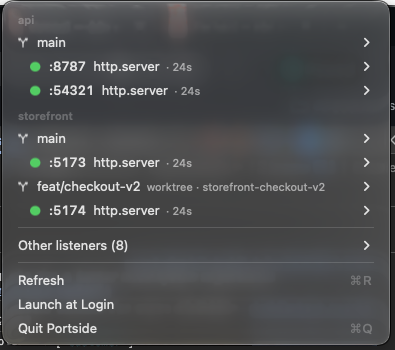
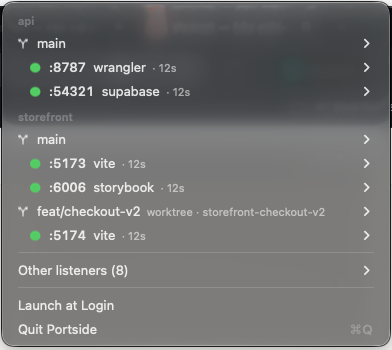
docs: polish README, add contributing guide and issue templates (#1)
- README: badges, direct download link, feature table, install steps
- New menu screenshot showing vite/wrangler/supabase/storybook labels
- demo.sh: disguise servers as node_modules/.bin/<tool> so the screenshot
  shows real tool names; also fixes `stop`, which missed servers because
  Homebrew python re-execs and drops the `exec -a` name
- CONTRIBUTING.md, bug/feature issue forms, PR template

diff --git a/README.md b/README.md
@@ -10,54 +10,69 @@
 </p>
 
 <p align="center">
-  <img src="docs/menu.png" width="395" alt="Portside menu showing dev servers grouped by repository and worktree">
+  <a href="https://github.com/brentc22/portside/releases/latest"><img src="https://img.shields.io/github/v/release/brentc22/portside?style=flat-square&label=release&color=4c6ef5" alt="Latest release"></a>
+  <a href="https://github.com/brentc22/portside/actions/workflows/ci.yml"><img src="https://img.shields.io/github/actions/workflow/status/brentc22/portside/ci.yml?branch=main&style=flat-square&label=CI" alt="CI status"></a>
+  <img src="https://img.shields.io/badge/macOS-14%2B-111?style=flat-square&logo=apple" alt="macOS 14 or later">
+  <img src="https://img.shields.io/badge/Swift-6-F05138?style=flat-square&logo=swift&logoColor=white" alt="Swift 6">
+  <a href="LICENSE"><img src="https://img.shields.io/github/license/brentc22/portside?style=flat-square&color=2f9e44" alt="MIT license"></a>
+</p>
+
+<p align="center">
+  <a href="https://github.com/brentc22/portside/releases/latest/download/Portside.zip"><b>Download Portside.zip</b></a>
+  &nbsp;·&nbsp;
+  <a href="#build-from-source">Build from source</a>
+  &nbsp;·&nbsp;
+  <a href="CHANGELOG.md">Changelog</a>
+</p>
+
+<p align="center">
+  <img src="docs/menu.png" width="392" alt="Portside menu: an api repo running wrangler and supabase, a storefront repo running vite and storybook, and a feat/checkout-v2 worktree running a second vite">
 </p>
 
 ---
 
 ## Why
 
-`lsof -iTCP -sTCP:LISTEN` tells you *node* is on `:5174`. It doesn't tell you it's the
+`lsof -iTCP -sTCP:LISTEN` tells you *node* is on `:5174`. It doesn't tell you that it's the
 Vite server you started three days ago in a worktree you already merged.
 
-If you work with several repos or git worktrees at once, ports pile up: `5173`, `5174`,
-`5175`, `8080`, `8787`… Portside answers "what is this, and can I kill it?" without a
-terminal.
+If you work in several repos or git worktrees at once, ports pile up: `5173`, `5174`,
+`5175`, `8080`, `8787`… Portside answers "what is this, and can I kill it?" without
+opening a terminal.
 
 ## Features
 
-- **Grouped by repo → checkout → server.** Linked git worktrees sit under their main
-  repository, labelled with their branch.
-- **Knows the tool, not just the binary.** `node` becomes `vite`, `next`, `wrangler`,
-  `astro`, `storybook`… by reading the process's arguments.
-- **Uptime per server** — spot the forgotten ones.
-- **One-click actions:** open `localhost:<port>`, copy the URL, stop (SIGTERM) or force quit
-  (SIGKILL), stop every server in a worktree at once.
-- **Jump to the code:** open the checkout in your editor (Cursor, VS Code, Zed, Windsurf,
-  Sublime, Xcode) or terminal (Ghostty, iTerm, Warp, kitty, WezTerm, Terminal) — whichever
-  you have installed.
-- **Everything else stays out of the way.** AirPlay, Spotify, Docker and other listeners
-  that weren't started from a git checkout go under *Other listeners*.
-- **Light:** no Dock icon, no permissions to grant, no network access, no dependencies.
-  A scan takes ~50–100 ms.
+|  |  |
+| --- | --- |
+| 🗂 **Grouped by repo → checkout → server** | Linked git worktrees sit under their main repository, labelled with their branch. |
+| 🔎 **Knows the tool, not just the binary** | `node` becomes `vite`, `next`, `wrangler`, `astro`, `storybook`… by reading the process's arguments. |
+| ⏱ **Uptime per server** | Spot the ones you forgot about. |
+| ⚡ **One-click actions** | Open `localhost:<port>`, copy the URL, stop (SIGTERM) or force quit (SIGKILL), or stop every server in a worktree at once. |
+| 🧑💻 **Jump to the code** | Open the checkout in your editor (Cursor, VS Code, Zed, Windsurf, Sublime, Xcode) or terminal (Ghostty, iTerm, Warp, kitty, WezTerm, Terminal), whichever you have installed. |
+| 🧹 **Everything else stays out of the way** | AirPlay, Spotify, Docker and other listeners that weren't started from a git checkout go under *Other listeners*. |
+| 🪶 **Light** | No Dock icon, no permissions to grant, no network access, no dependencies. A scan takes ~50–100 ms. |
 
 ## Install
 
-Download `Portside.zip` from the [latest release](../../releases/latest), unzip, and move
-`Portside.app` to `/Applications`.
+1. Download [`Portside.zip`](https://github.com/brentc22/portside/releases/latest/download/Portside.zip)
+   from the latest release.
+2. Unzip it and move `Portside.app` to `/Applications`.
+3. Open it. The icon appears in your menu bar; turn on **Launch at Login** from the menu
+   if you want it there every time.
 
-The app is not notarized yet, so macOS blocks the first launch. Either right-click →
-**Open**, or:
-
-```sh
-xattr -dr com.apple.quarantine /Applications/Portside.app
-```
+> [!NOTE]
+> Portside isn't notarized yet, so macOS blocks the first launch. Right-click the app →
+> **Open**, or clear the quarantine flag:
+>
+> ```sh
+> xattr -dr com.apple.quarantine /Applications/Portside.app
+> ```
 
 Requires macOS 14 Sonoma or later. Universal binary (Apple silicon + Intel).
 
 ### Build from source
 
-Only the Xcode Command Line Tools are needed — no full Xcode.
+You only need the Xcode Command Line Tools, not the full Xcode.
 
 ```sh
 git clone https://github.com/brentc22/portside.git
@@ -70,19 +85,21 @@ make run        # builds, installs to /Applications and launches
 | Question | Answer | How |
 | --- | --- | --- |
 | What's listening? | pid + ports | one `lsof -nP -iTCP -sTCP:LISTEN -F pcn` call |
-| Where was it started? | working directory | `proc_pidinfo(PROC_PIDVNODEPATHINFO)` — straight from the kernel |
+| Where was it started? | working directory | `proc_pidinfo(PROC_PIDVNODEPATHINFO)`, straight from the kernel |
 | What is it? | `vite`, `next`, … | argv via `sysctl(KERN_PROCARGS2)`, matched against `node_modules/.bin/*` |
 | Which repo and branch? | repo, worktree, branch | walks up to `.git`, follows `gitdir:` and `commondir` for worktrees, reads `HEAD` |
 
-No `git` subprocesses, no per-process `ps` calls: one `lsof`, the rest are syscalls and a
-few small file reads. Only your own processes are visible, so no admin rights are needed.
+No `git` subprocesses and no `ps` call per process: one `lsof`, and the rest is syscalls
+and a few small file reads. Portside only sees your own processes, so it doesn't need admin
+rights.
 
 ## Development
 
 ```sh
 make test           # unit tests (swift run PortsideTests)
 make bundle         # Portside.app in the repo root
-scripts/demo.sh     # start fake repos + servers to play with; `scripts/demo.sh stop` cleans up
+scripts/demo.sh     # fake repos + servers (vite, wrangler, …) to play with
+scripts/demo.sh stop
 ```
 
 Tests are a plain executable with a tiny harness instead of XCTest, so they run with just
@@ -114,8 +131,11 @@ Sources/
 - [ ] Global hotkey
 - [ ] Notarized builds and a Homebrew cask
 
-Ideas and PRs welcome — open an issue first for anything big.
+## Contributing
+
+Ideas, bug reports and PRs are welcome. See [CONTRIBUTING.md](CONTRIBUTING.md). For
+anything big, open an issue first so we can agree on the approach.
 
 ## License
 
-[MIT](LICENSE)
+[MIT](LICENSE) © Brent Ceulemans

diff --git a/CONTRIBUTING.md b/CONTRIBUTING.md
@@ -1,0 +1,28 @@
+# Contributing
+
+Thanks for taking a look! Portside is small on purpose, and it should stay that way:
+fast, dependency-free, no permissions to grant.
+
+## Getting started
+
+You only need the Xcode Command Line Tools.
+
+```sh
+make test           # unit tests
+make run            # build, install to /Applications, launch
+scripts/demo.sh     # fake repos + dev servers to test against; `stop` cleans up
+```
+
+## Where things live
+
+- `Sources/PortsideCore/`: scanning, argv parsing, git resolution, grouping. No AppKit.
+  Logic goes here, and it gets a test in `Sources/PortsideTests/`.
+- `Sources/Portside/`: the AppKit menu bar app. Keep it thin.
+
+## Guidelines
+
+- **No new dependencies** and no subprocesses per listener. One `lsof` per scan is the budget;
+  everything else is syscalls and file reads.
+- **A new dev tool to detect?** Add it to `ToolDetector.knownTools`, with a test.
+- **Something big?** Open an issue first so we can agree on the approach before you write it.
+- Commit messages follow `type: description` (`feat`, `fix`, `refactor`, `docs`, `test`, `chore`).

diff --git a/.github/pull_request_template.md b/.github/pull_request_template.md
@@ -1,0 +1,9 @@
+## What & why
+
+<!-- What does this change, and what problem does it solve? Link the issue if there is one. -->
+
+## Checklist
+
+- [ ] `make test` passes
+- [ ] Tried it in the menu bar (`make run`, or `scripts/demo.sh` for fake servers)
+- [ ] `CHANGELOG.md` updated if users will notice the change
